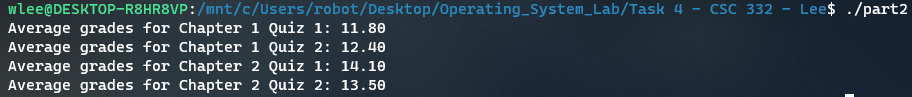
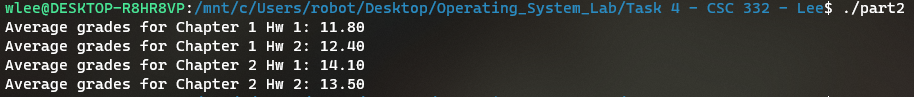
updated part2

diff --git a/Task 4 - CSC 332 - Lee/part2.c b/Task 4 - CSC 332 - Lee/part2.c
@@ -8,47 +8,59 @@
 
 // global variables for this function 
 const int X = 2; // number of chapters from textbook 
-const int Y = 2; // number of quiz per chapter 
-const int student = 10; // number of student (rows) in the data 
+const int Y = 2; // number of hw per chapter 
+
+int countRow(FILE * fp){
+	int count = 0;
+	char c; 
+	while(fscanf(fp, "%c", &c) != EOF	){
+		if(c == '\n'){
+			count++; 
+		}
+	}
+	fseek(fp, 0, SEEK_SET); // reset file pointer 
+	return count; 
+}
 
 float averageColumn(int ** data, int row, int col){
 	float average = 0; 
-	for(int i = 0; i < student; i++){
+	for(int i = 0; i < row; i++){
 		average += data[i][col];
 	}
-	return average / student; 
+	return average / row; 
 }
 
 int main(){
 	FILE * fp; 
 	int column = X * Y;
+
+	fp = fopen("hw_grades.txt", "r");
+	if(fp == NULL){ // failed to open file 
+		fclose(fp);
+		exit(EXIT_FAILURE);
+	}
+
+	int student = countRow(fp);
+
+	// allocate memory to 2d array to put hw grades in
 	int ** data = malloc(student * sizeof(*data));
 	for(int i = 0; i < student; i++){
 		data[i] = malloc(column * sizeof(data[0]));
 	}
 
-	fp = fopen("quiz_grades.txt", "r");
-	
-	if(fp == NULL){ // failed to open file 
-		fclose(fp);
-		exit(EXIT_FAILURE);
-	}
-	
-	// put quiz grades from text file into 2d data array
+	// put hw grades from text file into 2d data array
 	for(int i = 0; i < student; i++){
 		for(int j = 0; j < column; j++){
-			int grade;
-			fscanf(fp, "%d", &grade);
-			data[i][j] = grade; 
+			fscanf(fp, "%d", &data[i][j]);
 		}
 	}
 	fclose(fp);
 
 	for(int i = 0; i < X; i++){ // create X manager processes (1 per chapter)
 		if(fork() == 0){
-			for(int j = 0; j < Y; j++){ // create Y worker processes (1 per quiz)
+			for(int j = 0; j < Y; j++){ // create Y worker processes (1 per hw)
 				if(fork() == 0){
-					printf("Average grades for Chapter %d Quiz %d: %0.2f\n", i+1, j+1, averageColumn(data, student, i+i+j));
+					printf("Average grades for Chapter %d Hw %d: %0.2f\n", i+1, j+1, averageColumn(data, student, i+i+j));
 					exit(0);
 				}
 			}
@@ -68,6 +80,5 @@ int main(){
 		free(data[i]);
 	}
 	free(data);
-
 	return 0; 
 }

diff --git a/Task 4 - CSC 332 - Lee/README.md b/Task 4 - CSC 332 - Lee/README.md
@@ -9,4 +9,4 @@ Screenshot of Part 2 output: Each worker process prints out the average quiz gra
 
 ![Part 2 Screenshot](part2_ss.PNG)
 
-Data used in part 2 is in "quiz_grades.txt"
+Data used in part 2 is in "hw_grades.txt"
